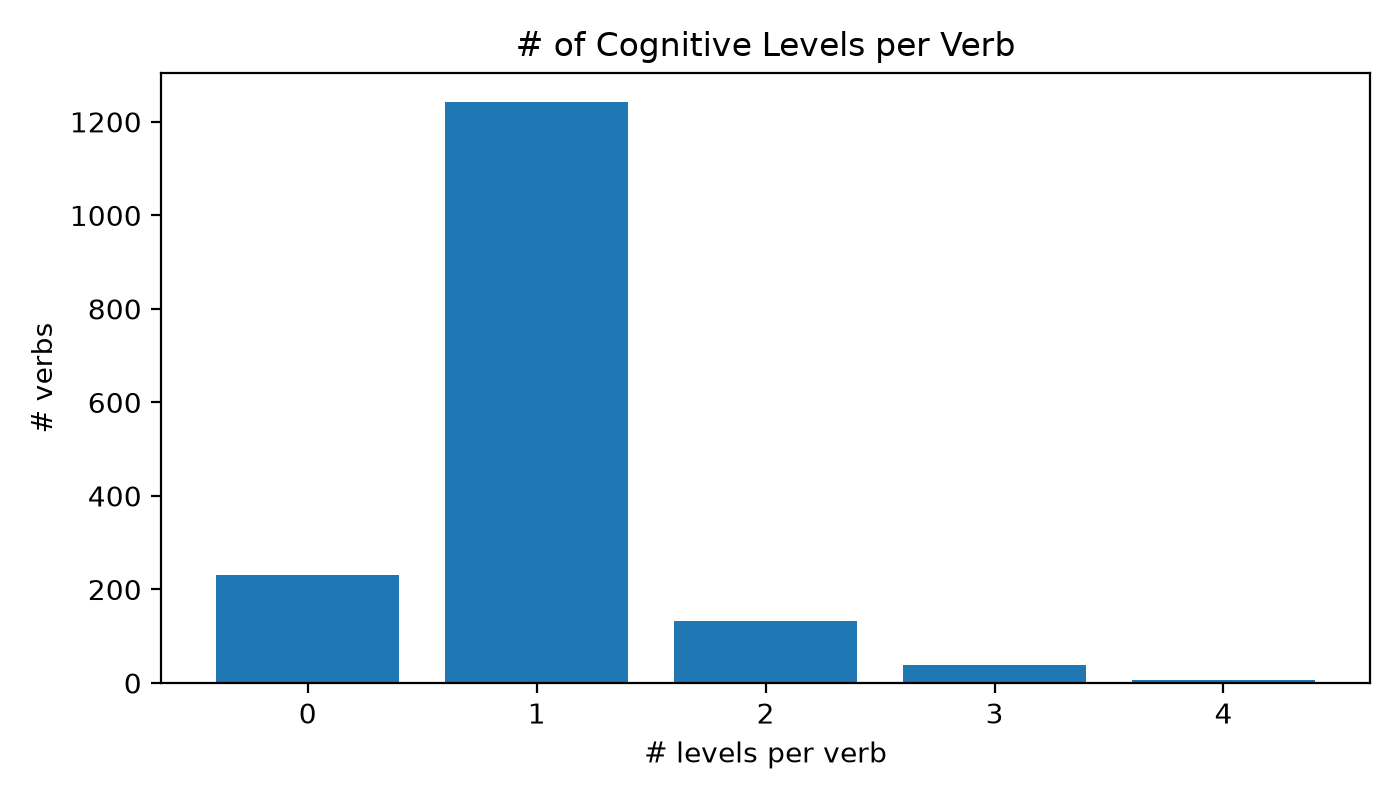
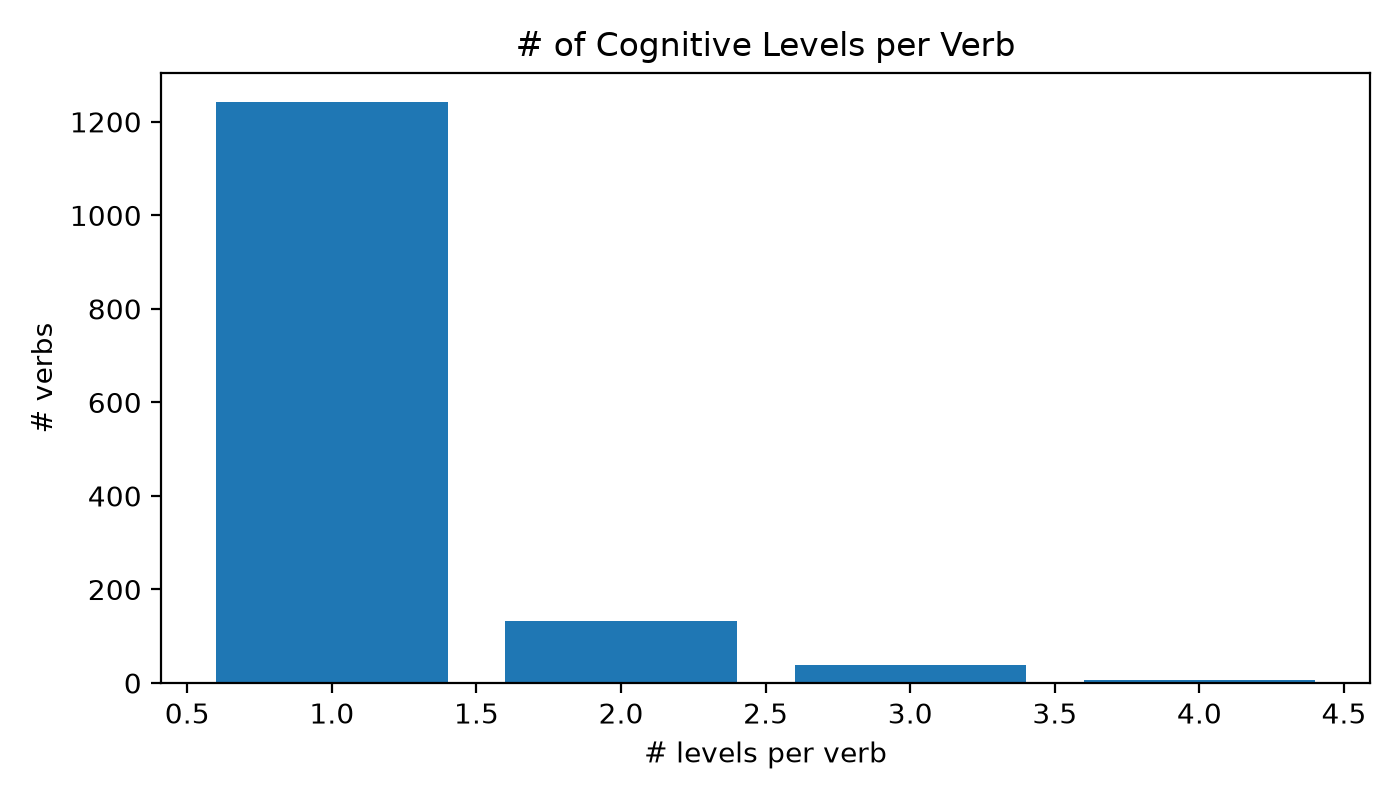
Regenerate result figures from the final bank and move superseded files to legacy
Two of the figures in results/figures were still drawn from an earlier run: the
label-count histogram and the mutual influence heatmap, plus the 2D model space.
They are now regenerated from the delivered bank (1,420 accepted verbs, 1,647
entries), and the two scripts that produce them are committed so this cannot drift
again. The entries-per-level figure was already current.

Material from the original submission moved to legacy/: the SGDClassifier P60 model
that used to sit in 'Best Model Saved', the 1,824-verb raw candidate list, and the
two old expert and export files. legacy/README.md says what replaced each of them
and why. The folder name 'Best Model Saved' was the confusing part, since the model
in it has not been the best model since the core was audited.

diff --git a/revision_pipeline/regen_bank_figures.py b/revision_pipeline/regen_bank_figures.py
@@ -1,0 +1,66 @@
+"""Regenerate the bank-derived figures in results/figures from the delivered bank.
+
+Same definitions as the BT4 notebook: entries per level, distribution of levels per
+verb, and the mutual influence matrix. Run after retrain.py so the figures match the
+bank that is actually shipped.
+"""
+import os
+from pathlib import Path
+
+import numpy as np
+import pandas as pd
+import matplotlib
+matplotlib.use("Agg")
+import matplotlib.pyplot as plt
+
+HERE = Path(__file__).resolve().parent
+REPO = HERE.parent
+BANK = REPO / "results" / "Verb List Classified by Model.csv"
+FIG_DIR = REPO / "results" / "figures"
+LEVELS = ["Kn", "Cm", "Ap", "An", "Sn", "Ev"]
+
+df = pd.read_csv(BANK)
+df = df[df["Accepted"] == True].reset_index(drop=True)  # noqa: E712
+pat = df["AcceptedPattern"].astype(str).str.zfill(6)
+for i, lv in enumerate(LEVELS):
+    df[lv] = pat.str[i].astype(int)
+print(f"accepted verbs: {len(df)} | entries: {int(df[LEVELS].to_numpy().sum())}")
+print("entries per level:", {lv: int(df[lv].sum()) for lv in LEVELS})
+
+FIG_DIR.mkdir(parents=True, exist_ok=True)
+
+sums = [int(df[lv].sum()) for lv in LEVELS]
+plt.figure(figsize=(7, 4))
+plt.bar(LEVELS, sums)
+plt.title("Entries per Cognitive Level")
+plt.xlabel("Level"); plt.ylabel("# Entries")
+plt.tight_layout(); plt.savefig(FIG_DIR / "fig_entries_per_level.png", dpi=200); plt.close()
+
+nlab = df[LEVELS].sum(axis=1)
+vals = nlab.value_counts().sort_index()
+print("levels per verb:", dict(vals))
+plt.figure(figsize=(7, 4))
+plt.bar(vals.index.astype(int), vals.values)
+plt.title("# of Cognitive Levels per Verb")
+plt.xlabel("# levels per verb"); plt.ylabel("# verbs")
+plt.tight_layout(); plt.savefig(FIG_DIR / "fig_nlabels_hist.png", dpi=200); plt.close()
+
+total = len(df)
+B = df[LEVELS].to_numpy(dtype=int)
+subtotals = B.sum(axis=0)
+M = np.full((6, 6), np.nan)
+for i in range(6):
+    for j in range(6):
+        if i == j:
+            continue
+        count_ij = int((B[:, i] & B[:, j]).sum())
+        denom = max(int(subtotals[i]) * int(subtotals[j]), 1)
+        M[i, j] = (count_ij * total) / denom
+plt.figure(figsize=(6, 5))
+im = plt.imshow(M, interpolation="nearest")
+plt.colorbar(im, fraction=0.046, pad=0.04)
+plt.xticks(range(6), LEVELS); plt.yticks(range(6), LEVELS)
+plt.title("Mutual Influence Matrix")
+plt.tight_layout(); plt.savefig(FIG_DIR / "fig_mutual_influence_heatmap.png", dpi=200); plt.close()
+
+print("figures written to", FIG_DIR)

diff --git a/revision_pipeline/regen_model_space.py b/revision_pipeline/regen_model_space.py
@@ -1,0 +1,52 @@
+"""Regenerate results/figures/model_space_2d.png from the delivered bank.
+
+Same projection and styling as the BT4 notebook cell (UMAP when available, PCA
+otherwise), coloured by the primary domain of each accepted verb.
+"""
+from pathlib import Path
+
+import numpy as np
+import pandas as pd
+import matplotlib
+matplotlib.use("Agg")
+import matplotlib.pyplot as plt
+from matplotlib.colors import ListedColormap
+
+HERE = Path(__file__).resolve().parent
+REPO = HERE.parent
+LEVELS = ["Kn", "Cm", "Ap", "An", "Sn", "Ev"]
+PALETTE = ["tab:blue", "tab:orange", "tab:green", "tab:red", "tab:purple", "tab:brown"]
+CMAP = ListedColormap(PALETTE)
+
+df = pd.read_csv(REPO / "results" / "Verb List Classified by Model.csv")
+df = df[(df["Accepted"] == True) & (df["PrimaryDomain"].isin(LEVELS))].reset_index(drop=True)  # noqa: E712
+
+z = np.load(HERE / "all_embeddings.npz", allow_pickle=True)
+emb = {str(w).strip().lower(): z["vectors"][i] for i, w in enumerate(z["words"])}
+keep = [i for i, v in enumerate(df["Verb"].astype(str).str.lower()) if v in emb]
+df = df.iloc[keep].reset_index(drop=True)
+X = np.stack([emb[v] for v in df["Verb"].astype(str).str.lower()])
+print(f"points: {len(df)} | dim: {X.shape[1]}")
+
+try:
+    import umap
+    Z = umap.UMAP(n_components=2, random_state=42).fit_transform(X)
+    method = "UMAP"
+except Exception:
+    from sklearn.decomposition import PCA
+    Z = PCA(n_components=2, random_state=42).fit_transform(X)
+    method = "PCA"
+print("projection:", method)
+
+y = np.array([LEVELS.index(x) for x in df["PrimaryDomain"].astype(str)], dtype=int)
+plt.figure(figsize=(7.8, 6.2))
+plt.scatter(Z[:, 0], Z[:, 1], c=y, cmap=CMAP, vmin=0, vmax=len(LEVELS) - 1, s=10, alpha=0.80)
+plt.title(f"Bloom Model Visualization ({method})")
+plt.xticks([]); plt.yticks([])
+handles = [plt.Line2D([], [], marker="o", linestyle="", label=lv, markersize=6,
+                      markerfacecolor=PALETTE[i], markeredgecolor="none")
+           for i, lv in enumerate(LEVELS)]
+plt.legend(handles=handles, title="Primary domain", loc="lower left", frameon=True)
+out = REPO / "results" / "figures" / "model_space_2d.png"
+plt.tight_layout(); plt.savefig(out, dpi=220); plt.close()
+print("saved", out)

diff --git a/legacy/README.md b/legacy/README.md
@@ -1,0 +1,27 @@
+# Superseded material
+
+Everything in this folder comes from the original submission and has been replaced. It is
+kept so the earlier state stays inspectable, not because it is still in use. If you want
+the current versions, use the files named on the right.
+
+| Here | Superseded by |
+| --- | --- |
+| `original-submission-model/` (SGDClassifier P60, saved 2025-10-12) | `production_model/` (kNN, k = 21, P50) |
+| `BTverblist_new.txt` (1,824 raw candidate verbs) | `revision_pipeline/candidates_final.txt` (1,650 after normalization) |
+| `ExpertSample_single (Model Classified Sample).csv` | `results/ExpertSample_single.csv` |
+| `Final File(with model & Expert Classification).xlsx` | `results/Verb List Classified by Model.csv` |
+
+Why they were replaced:
+
+- The training core was audited against its published source and enriched from two further
+  published consolidations, so every model trained before that audit sits on a different
+  core (381 verbs and 607 assignments now, against 358 and 559 before).
+- The candidate pool was normalized, which removed core-verb variants, within-pool
+  duplicates and auxiliaries. `revision_pipeline/normalization_audit.csv` records what
+  happened to each of the 1,824 raw candidates.
+- Model selection changed from the structural score alone to a two-stage rule that also
+  uses cross-validated generalization and held-out end-to-end accuracy, which is what
+  moved the production model from SGDClassifier to k-nearest neighbours.
+
+Do not load the model in `original-submission-model/` expecting the published results. It
+predates all of the above.

diff --git a/README.md b/README.md
@@ -37,6 +37,7 @@ If you want to **rerun the study**, see Reproduction below.
 | `results/core_structure/` | the core-verb distance tables and figures used in Section 2.1 |
 | `BT 1` to `BT 5` notebooks | the narrative walkthrough, executed with outputs |
 | `Papers & Books Used for Extraction/` | the source corpus, for transparency (see the notice in that folder) |
+| `legacy/` | material from the original submission, kept for reference and clearly superseded |
 
 ## The notebooks
 
